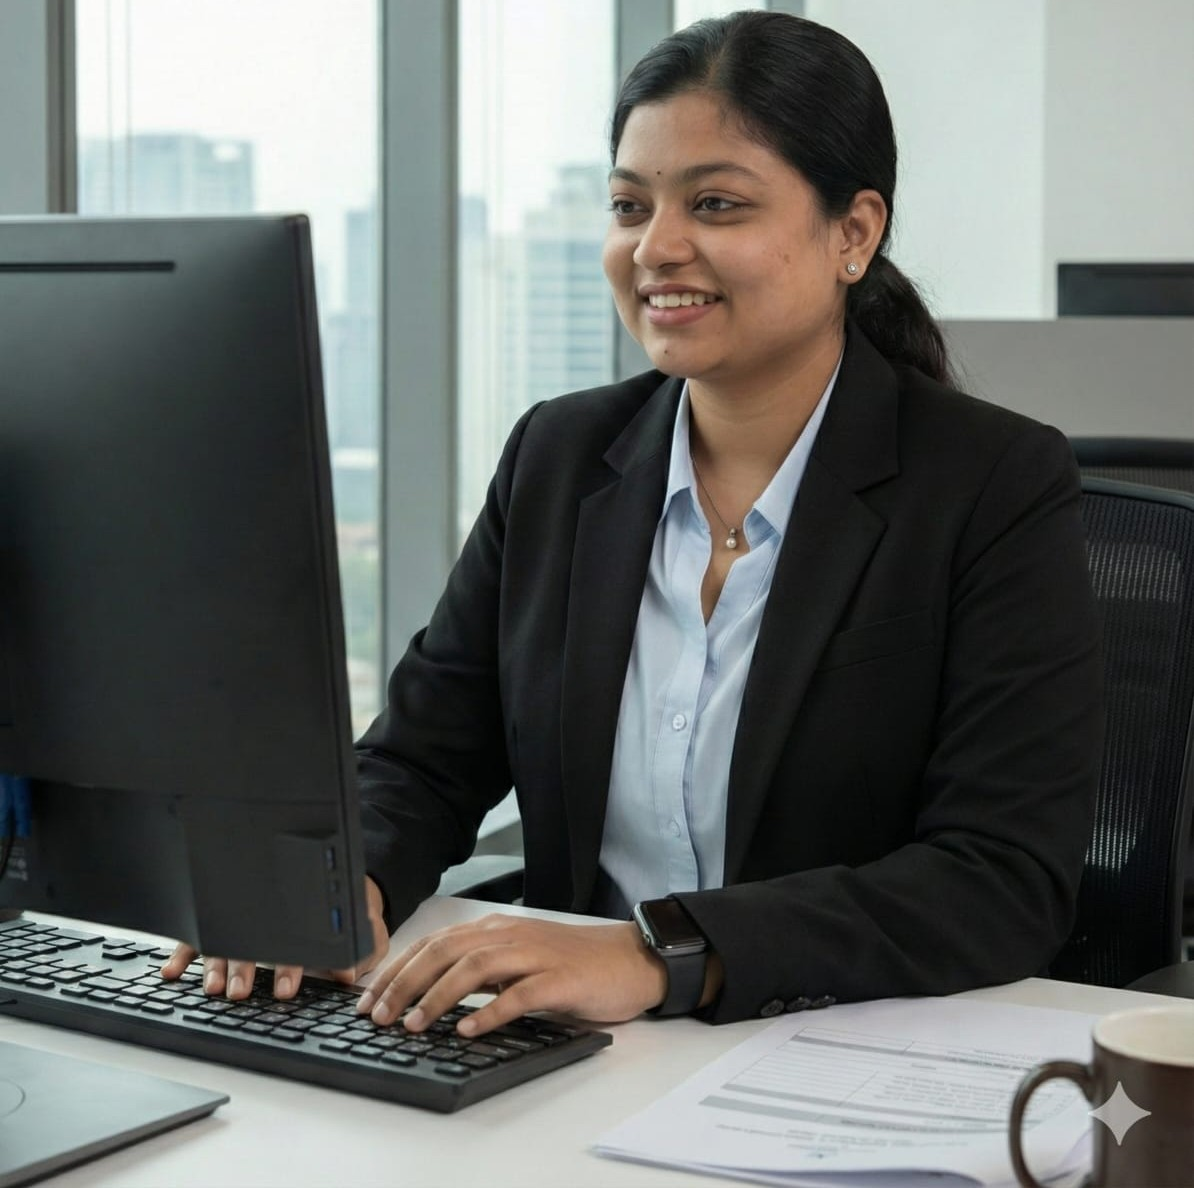
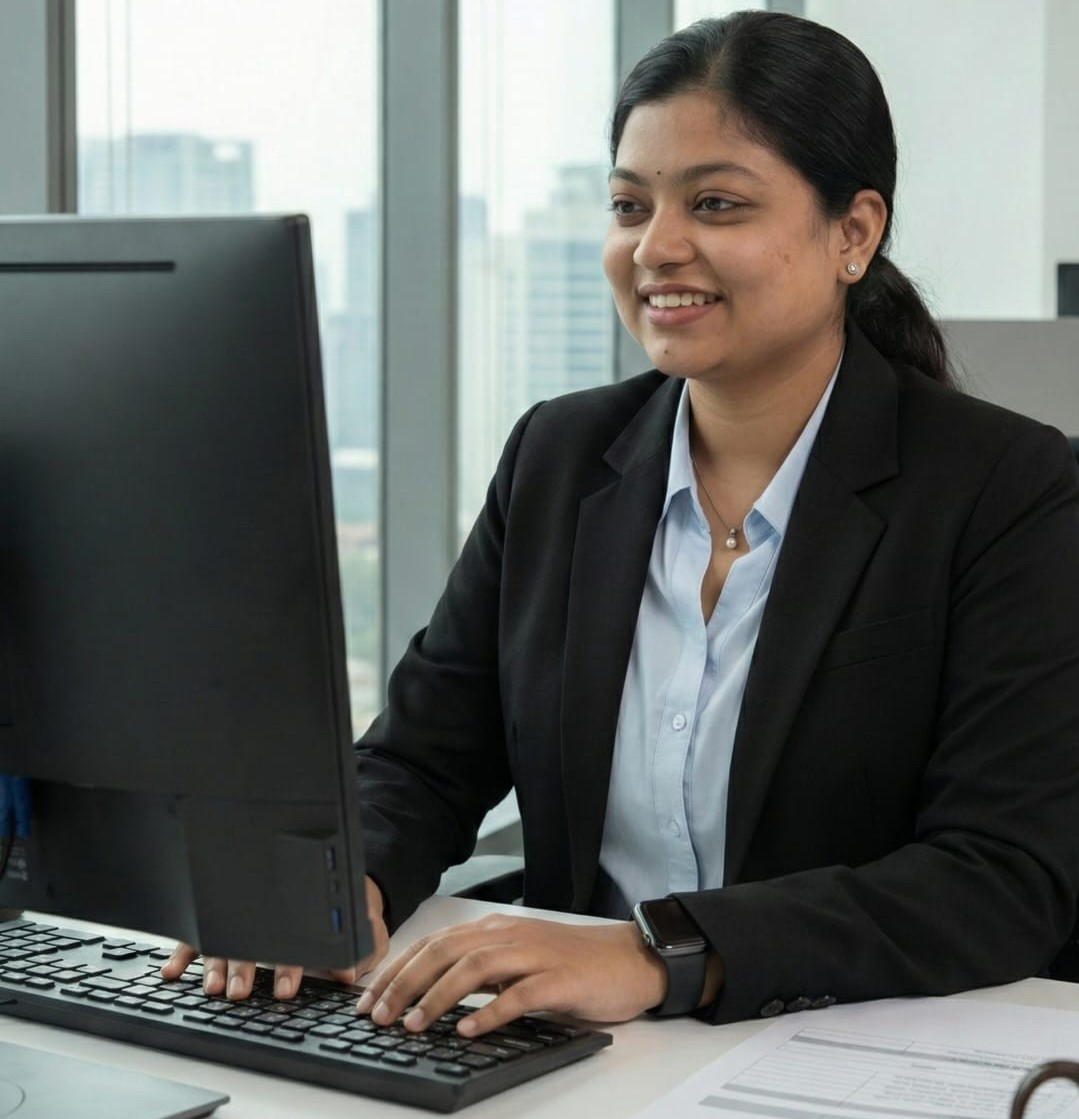
link

diff --git a/components/hero.tsx b/components/hero.tsx
@@ -1,7 +1,7 @@
 'use client'
 
 import { motion } from 'framer-motion'
-import { ArrowRight, Github, Linkedin, Mail, Twitter, Instagram } from 'lucide-react'
+import { ArrowRight, Github, Linkedin, Mail } from 'lucide-react'
 import Image from 'next/image'
 import profileImage from './image/image.jpeg'
 
@@ -60,9 +60,9 @@ export default function Hero() {
             transition={{ duration: 0.5, delay: 0.8 }}
             className="flex gap-6 items-center justify-center lg:justify-start mt-8 lg:mt-0"
           >
-            <a href="#" className="hover:text-yellow-400 transition-colors"><Instagram size={20} /></a>
-            <a href="#" className="hover:text-yellow-400 transition-colors"><Twitter size={20} /></a>
-            <a href="#" className="hover:text-yellow-400 transition-colors"><Linkedin size={20} /></a>
+            <a href="https://github.com/sukannaghosh2001-coder" target="_blank" rel="noopener noreferrer" className="hover:text-yellow-400 transition-colors"><Github size={20} /></a>
+            <a href="https://www.linkedin.com/in/sukanna-ghosh18" target="_blank" rel="noopener noreferrer" className="hover:text-yellow-400 transition-colors"><Linkedin size={20} /></a>
+            <a href="mailto:tosg2001@gmail.com" className="hover:text-yellow-400 transition-colors"><Mail size={20} /></a>
           </motion.div>
         </div>
 

diff --git a/components/contact.tsx b/components/contact.tsx
@@ -27,8 +27,8 @@ export default function Contact() {
   const contactInfo = [
     {
       label: 'Email',
-      value: 'sukannaghosh2001@gmail.com',
-      href: 'mailto:sukannaghosh2001@gmail.com',
+      value: 'tosg2001@gmail.com',
+      href: 'mailto:tosg2001@gmail.com',
       icon: '✉',
     },
     {
@@ -46,9 +46,9 @@ export default function Contact() {
   ]
 
   const socialLinks = [
-    { name: 'GitHub', url: '#', icon: 'GH' },
-    { name: 'LinkedIn', url: '#', icon: 'in' },
-    { name: 'Twitter', url: '#', icon: 'X' },
+    { name: 'GitHub', url: 'https://github.com/sukannaghosh2001-coder', icon: 'GH' },
+    { name: 'LinkedIn', url: 'https://www.linkedin.com/in/sukanna-ghosh18', icon: 'in' },
+
   ]
 
   return (
